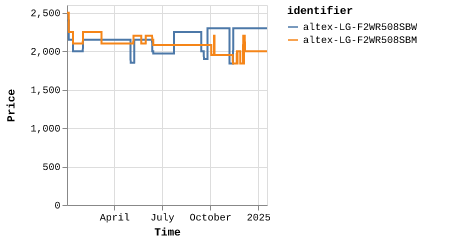
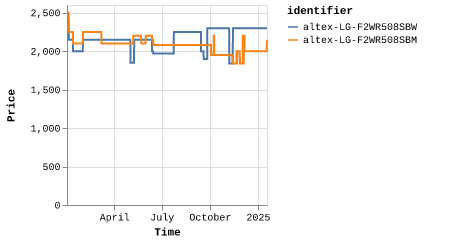
Latest scraping spalat: Sat Jan 18 08:40:32 UTC 2025

diff --git a/scrapes/spalat/altex-LG-F2WR508SBM.md b/scrapes/spalat/altex-LG-F2WR508SBM.md
@@ -1,3 +1,3 @@
-1999
+2149
 
 [Source](https://altex.ro/masina-de-spalat-rufe-frontala-slim-lg-f2wr508sbm-steam-8-kg-1200rpm-clasa-a-negru/cpd/MSFF2WR508SBM/)
